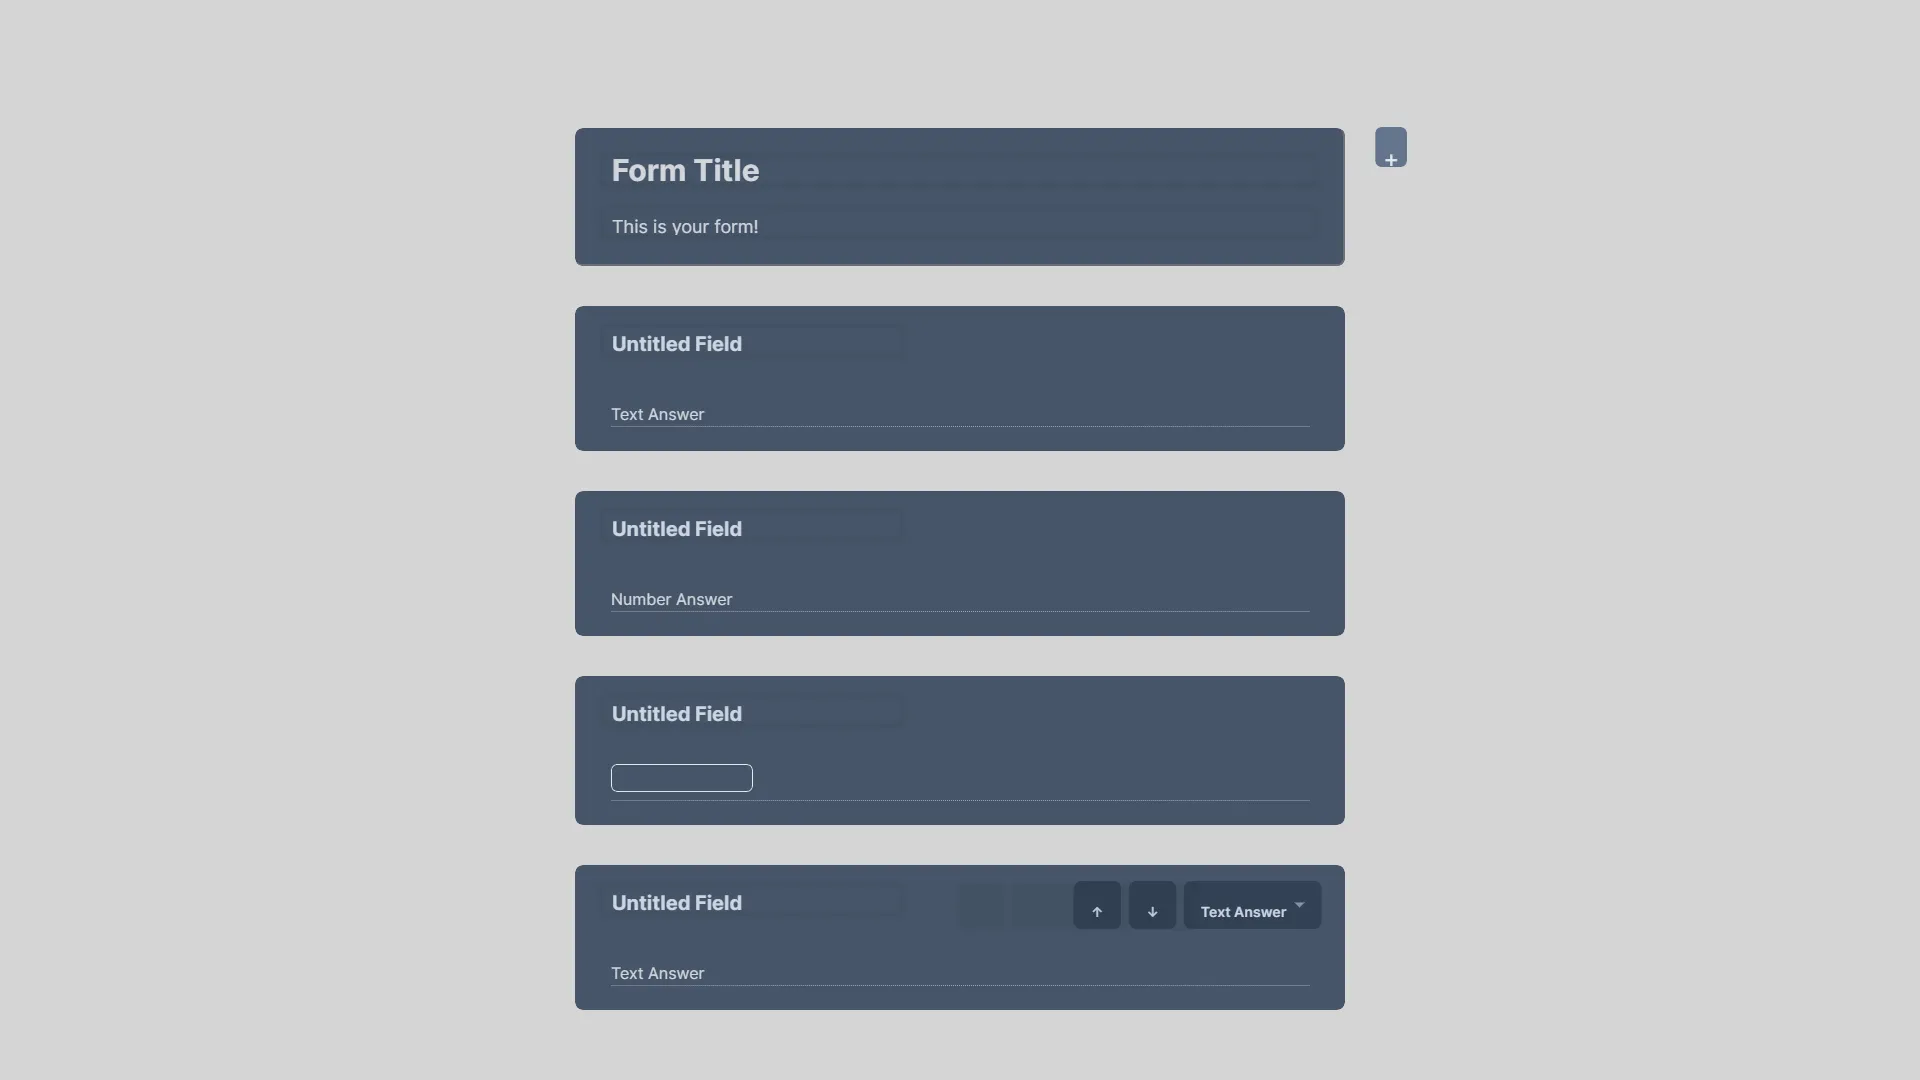
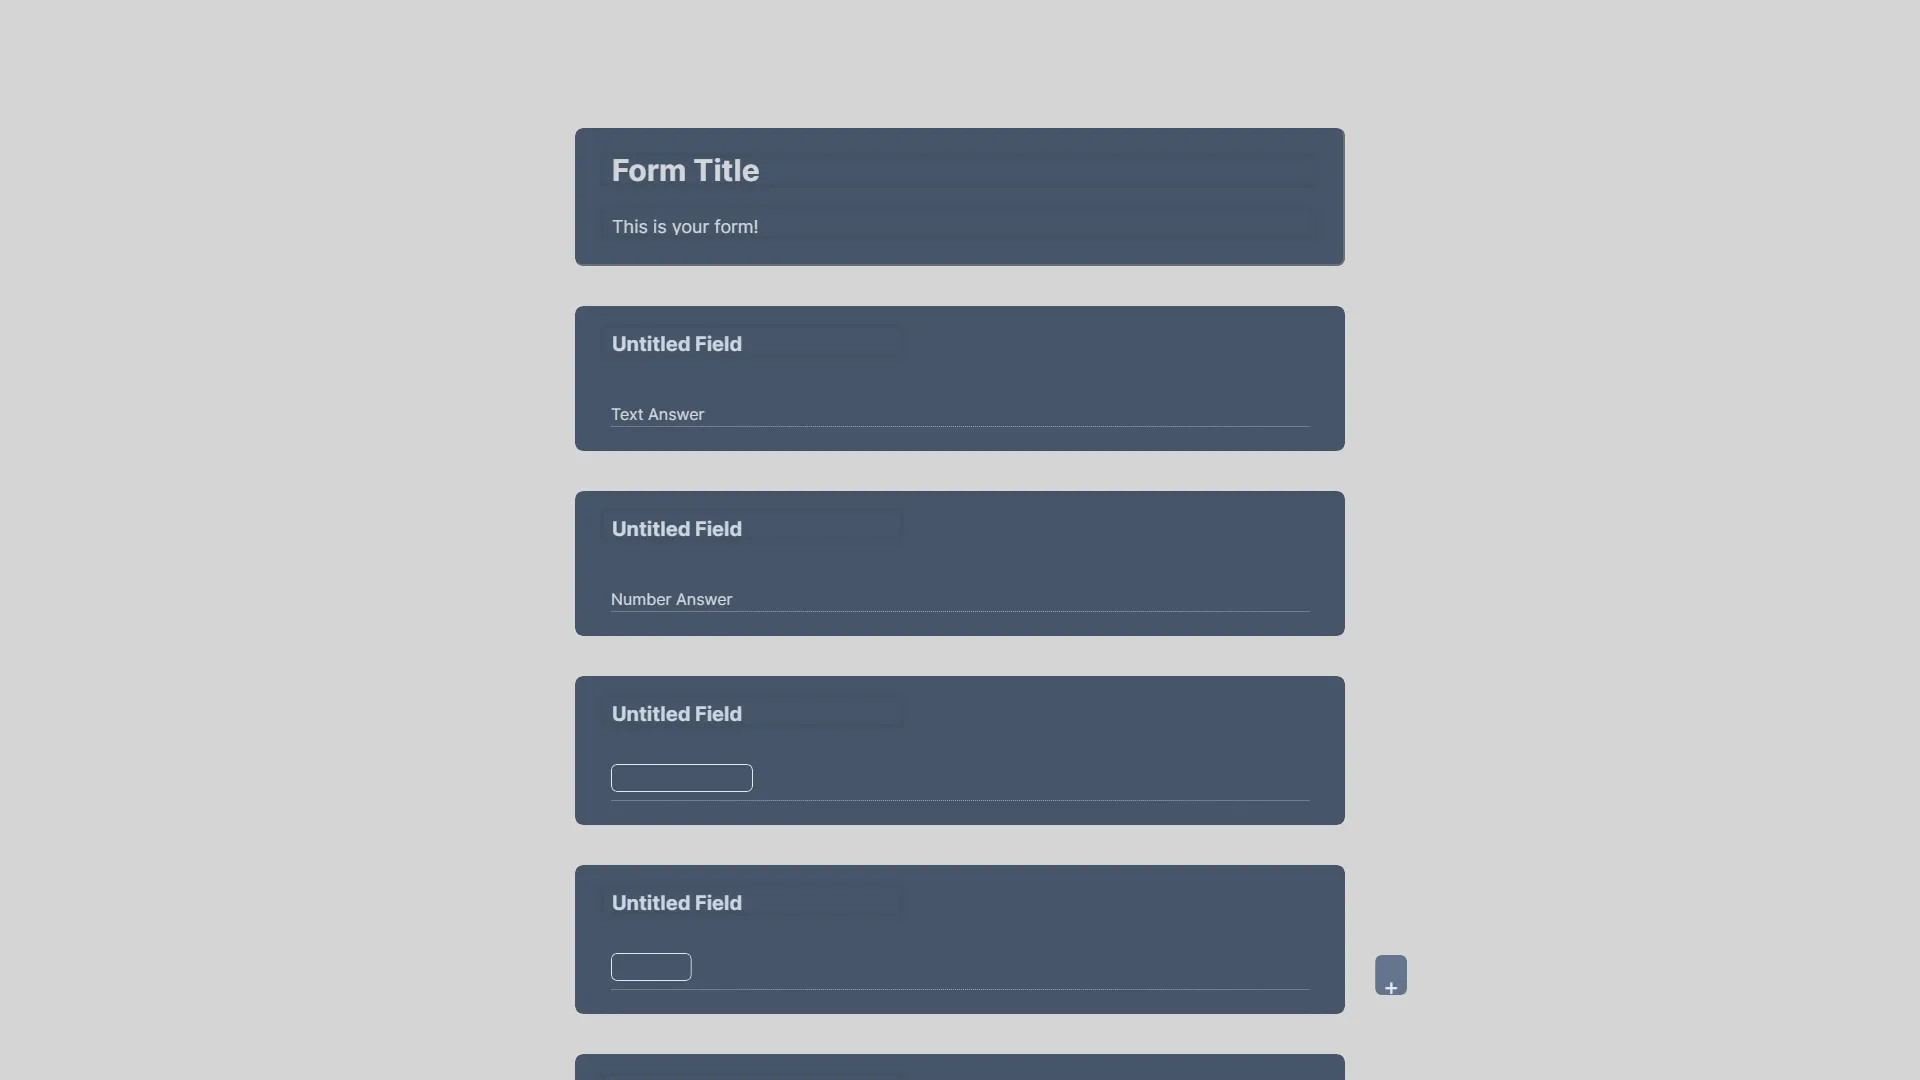
Added new answer types for user forms

diff --git a/src/components/formUser/LinealScaleUser.tsx b/src/components/formUser/LinealScaleUser.tsx
@@ -1,0 +1,57 @@
+import { useState } from "react";
+
+export const LinealScaleUser = ({
+  field,
+  register,
+}: {
+  field: any;
+  register: any;
+}) => {
+  const [MinNumber, setMinNumber] = useState<number>(
+    parseInt(
+      ((field.Answers as []).find((f: any) => f.answerType === 3) as any)
+        .answerName
+    )
+  );
+  const [MaxNumber, setMaxNumber] = useState<number>(
+    parseInt(
+      ((field.Answers as []).find((f: any) => f.answerType === 4) as any)
+        .answerName || 5
+    ) || 5
+  );
+  const [MinTitle, setMinTitle] = useState<string>(
+    ((field.Answers as []).find((f: any) => f.answerType === 1) as any)
+      .answerName || "Minimum"
+  );
+  const [MaxTitle, setMaxTitle] = useState<string>(
+    ((field.Answers as []).find((f: any) => f.answerType === 2) as any)
+      .answerName || "Maximum"
+  );
+  return (
+    <div className="px-3">
+      <div className="px-3 flex flex-col gap-2">
+        <div className="flex flex-row gap-6">
+          <div className="flex items-end">{MinTitle}</div>
+          {Array(MaxNumber + 1 - MinNumber)
+            .fill("x")
+            .map((value, index) => (
+              <div className="flex flex-col items-center" key={index}>
+                <div>{MinNumber === 0 ? index : index + 1}</div>
+                <input
+                  type="radio"
+                  name="radio-1"
+                  className="radio cursor-default"
+                  style={{
+                    borderColor: "rgb(209 213 219 / var(--tw-text-opacity))",
+                  }}
+                  checked={false}
+                  onChange={() => {}}
+                />
+              </div>
+            ))}
+          <div className="flex items-end">{MaxTitle}</div>
+        </div>
+      </div>
+    </div>
+  );
+};

diff --git a/src/components/formUser/FormFieldUser.tsx b/src/components/formUser/FormFieldUser.tsx
@@ -3,6 +3,9 @@ import { NumberAnswerUser } from "./NumberAnswer";
 import { TextAnswerUser } from "./TextAnwer";
 import { DateAnswerUser } from "./DateAnswerUser";
 import { TimeAnswerUser } from "./TimeAnswerUser";
+import { RadioButtonsUser } from "./RadioButtonsUser";
+import { CheckboxesUser } from "./CheckboxUser";
+import { LinealScaleUser } from "./LinealScaleUser";
 
 export const FormFieldUser = ({
   field,
@@ -13,6 +16,11 @@ export const FormFieldUser = ({
 }) => {
   return (
     <div className="flex rounded-lg flex-col w-full bg-slate-600 min-w-[770px] max-w-[770px] ">
+      <div className="w-full p-6 py-4 flex justify-between ml-4">
+        <div className="text-xl font-bold text-slate-300 border-transparent w-fit">
+          {field.fieldTitle}
+        </div>
+      </div>
       {field.fieldAnswerType === 0 && (
         <div className="w-full p-6 pt-2 pb-6">
           <TextAnswerUser field={field} register={register} />
@@ -35,17 +43,17 @@ export const FormFieldUser = ({
       )}
       {field.fieldAnswerType === 4 && (
         <div className="w-full p-6 pt-2 pb-6">
-          {"<RadioButtons field={field} />"}
+          <RadioButtonsUser field={field} register={register} />
         </div>
       )}
       {field.fieldAnswerType === 5 && (
         <div className="w-full p-6 pt-2 pb-6">
-          {"<CheckboxAnswer field={field} />"}
+          <CheckboxesUser field={field} register={register} />
         </div>
       )}
       {field.fieldAnswerType === 6 && (
         <div className="w-full p-6 pt-2 pb-6">
-          {"<LinealScale  field={field}  />"}
+          <LinealScaleUser field={field} register={register} />
         </div>
       )}
       {field.fieldAnswerType === 7 && (

diff --git a/src/components/formUser/CheckboxUser.tsx b/src/components/formUser/CheckboxUser.tsx
@@ -1,0 +1,53 @@
+import { useState } from "react";
+
+export const CheckboxesUser = ({
+  field,
+  register,
+}: {
+  field: any;
+  register: any;
+}) => {
+  const [answers, setAnswers] = useState<any>(
+    field.Answers.filter((f: any) => f.answerType === 0).toSorted(
+      (a: any, b: any) => {
+        if ((a as any).answerPos < (b as any).answerPos) {
+          return -1;
+        }
+        if ((a as any).answerPos > (b as any).answerPos) {
+          return 1;
+        }
+        return 0;
+      }
+    )
+  );
+  return (
+    <div className="px-3">
+      {answers.map((answer: any, index: number) => {
+        return (
+          <div className="flex items-center" key={answer.answerName + index}>
+            <div className="form-control">
+              <label className="label">
+                <input
+                  type="checkbox"
+                  name="checkbox-1"
+                  className="checkbox cursor-default"
+                  {...register(
+                    (field.fieldID as number).toString() +
+                      "-" +
+                      (answer.answerID as number).toString()
+                  )}
+                  style={{
+                    borderColor: "rgb(209 213 219 / var(--tw-text-opacity))",
+                  }}
+                />
+              </label>
+            </div>
+            <div className="text-md text-gray-300 border-transparent ml-4">
+              {answer.answerName}
+            </div>
+          </div>
+        );
+      })}
+    </div>
+  );
+};

diff --git a/src/components/formUser/RadioButtonsUser.tsx b/src/components/formUser/RadioButtonsUser.tsx
@@ -1,0 +1,53 @@
+import { useState } from "react";
+
+export const RadioButtonsUser = ({
+  field,
+  register,
+}: {
+  field: any;
+  register: any;
+}) => {
+  const [answers, setAnswers] = useState<any>(
+    field.Answers.filter((f: any) => f.answerType === 0).toSorted(
+      (a: any, b: any) => {
+        if ((a as any).answerPos < (b as any).answerPos) {
+          return -1;
+        }
+        if ((a as any).answerPos > (b as any).answerPos) {
+          return 1;
+        }
+        return 0;
+      }
+    )
+  );
+  return (
+    <div className="px-3">
+      {answers.map((answer: any, index: number) => {
+        return (
+          <div className="flex items-center" key={answer.answerName + index}>
+            <div className="form-control">
+              <label className="label">
+                <input
+                  type="radio"
+                  name="radio-1"
+                  className="radio cursor-default"
+                  {...register(
+                    (field.fieldID as number).toString() +
+                      "-" +
+                      (answer.answerID as number).toString()
+                  )}
+                  style={{
+                    borderColor: "rgb(209 213 219 / var(--tw-text-opacity))",
+                  }}
+                />
+              </label>
+            </div>
+            <div className="text-md text-gray-300 border-transparent ml-4">
+              {answer.answerName}
+            </div>
+          </div>
+        );
+      })}
+    </div>
+  );
+};

diff --git a/actions/getForms.ts b/actions/getForms.ts
@@ -2,13 +2,13 @@
 
 import { db } from "@/lib/db";
 
-export const getFormsServer = async(id:string) => {
-    const forms = await db.savedForm.findMany({
-        where: {
-          authorID: {
-            equals: id,
-          },
-        },
-      });
-return forms;
-}
+export const getFormsServer = async (id: string) => {
+  const forms = await db.savedForm.findMany({
+    where: {
+      authorID: {
+        equals: id,
+      },
+    },
+  });
+  return forms;
+};

diff --git a/actions/getSavedForm.ts b/actions/getSavedForm.ts
@@ -39,7 +39,11 @@ export const getSavedFormClient = async (id: string) => {
       formid: formid.formid,
     },
     include: {
-      fields: true,
+      fields: {
+        include: {
+          Answers: true,
+        },
+      },
     },
   });
   return form;
